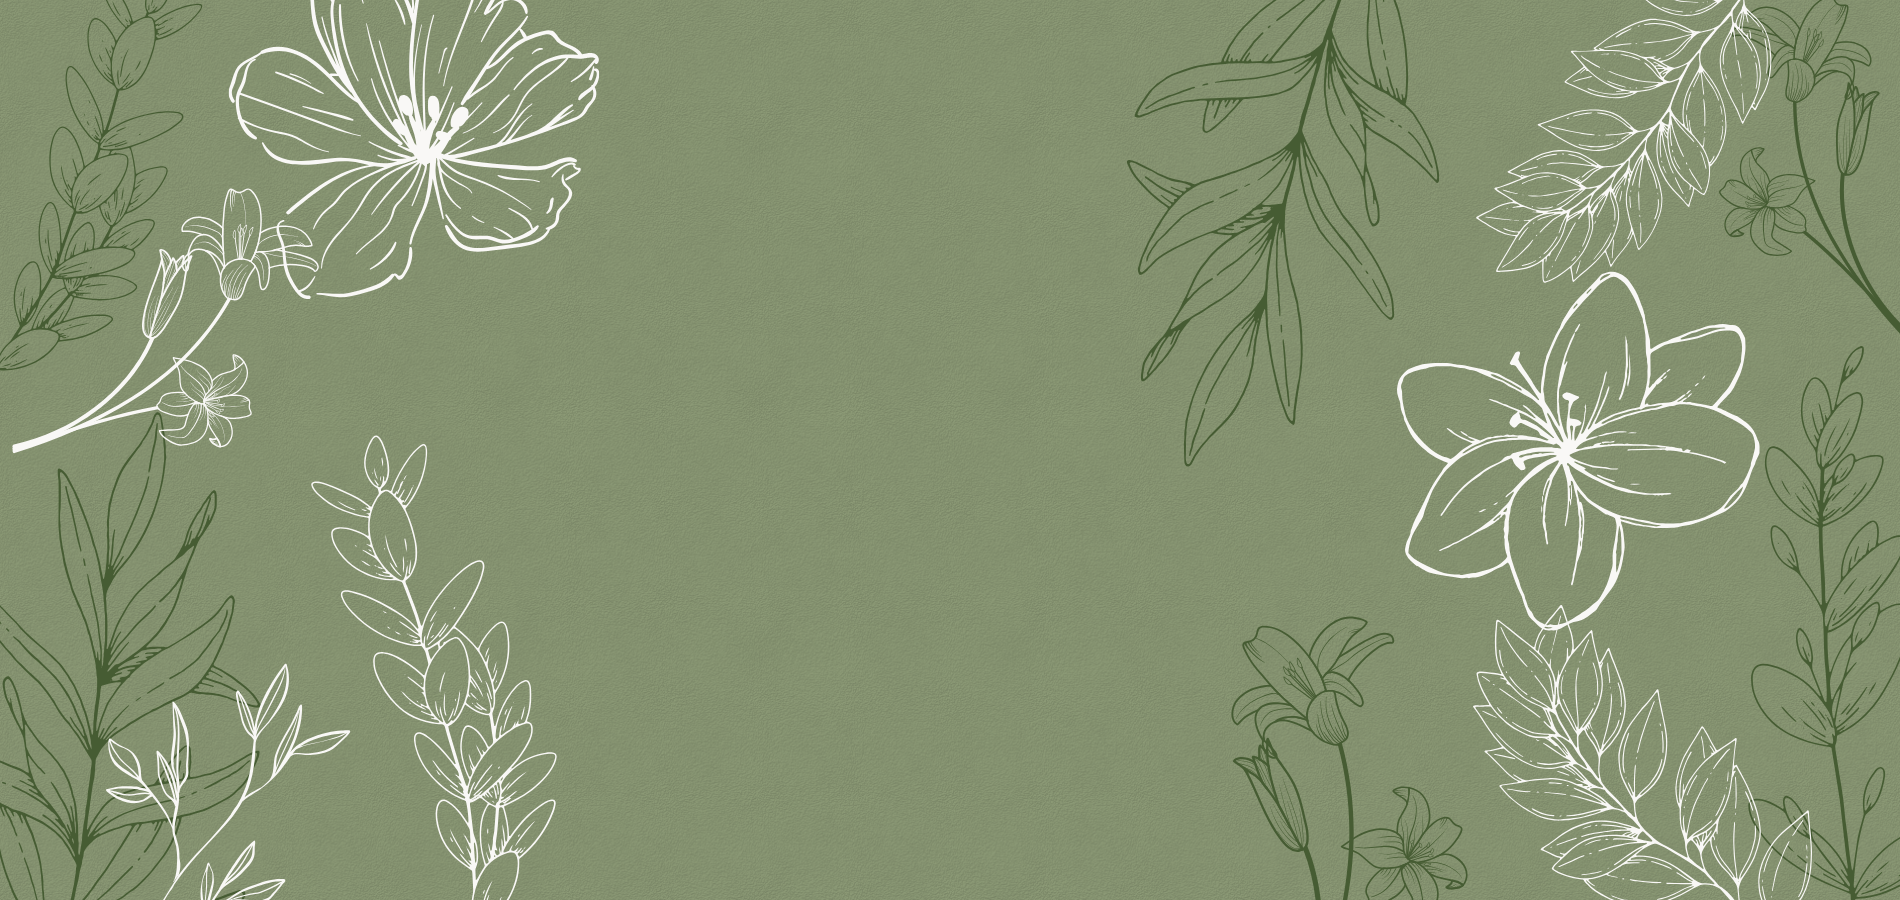
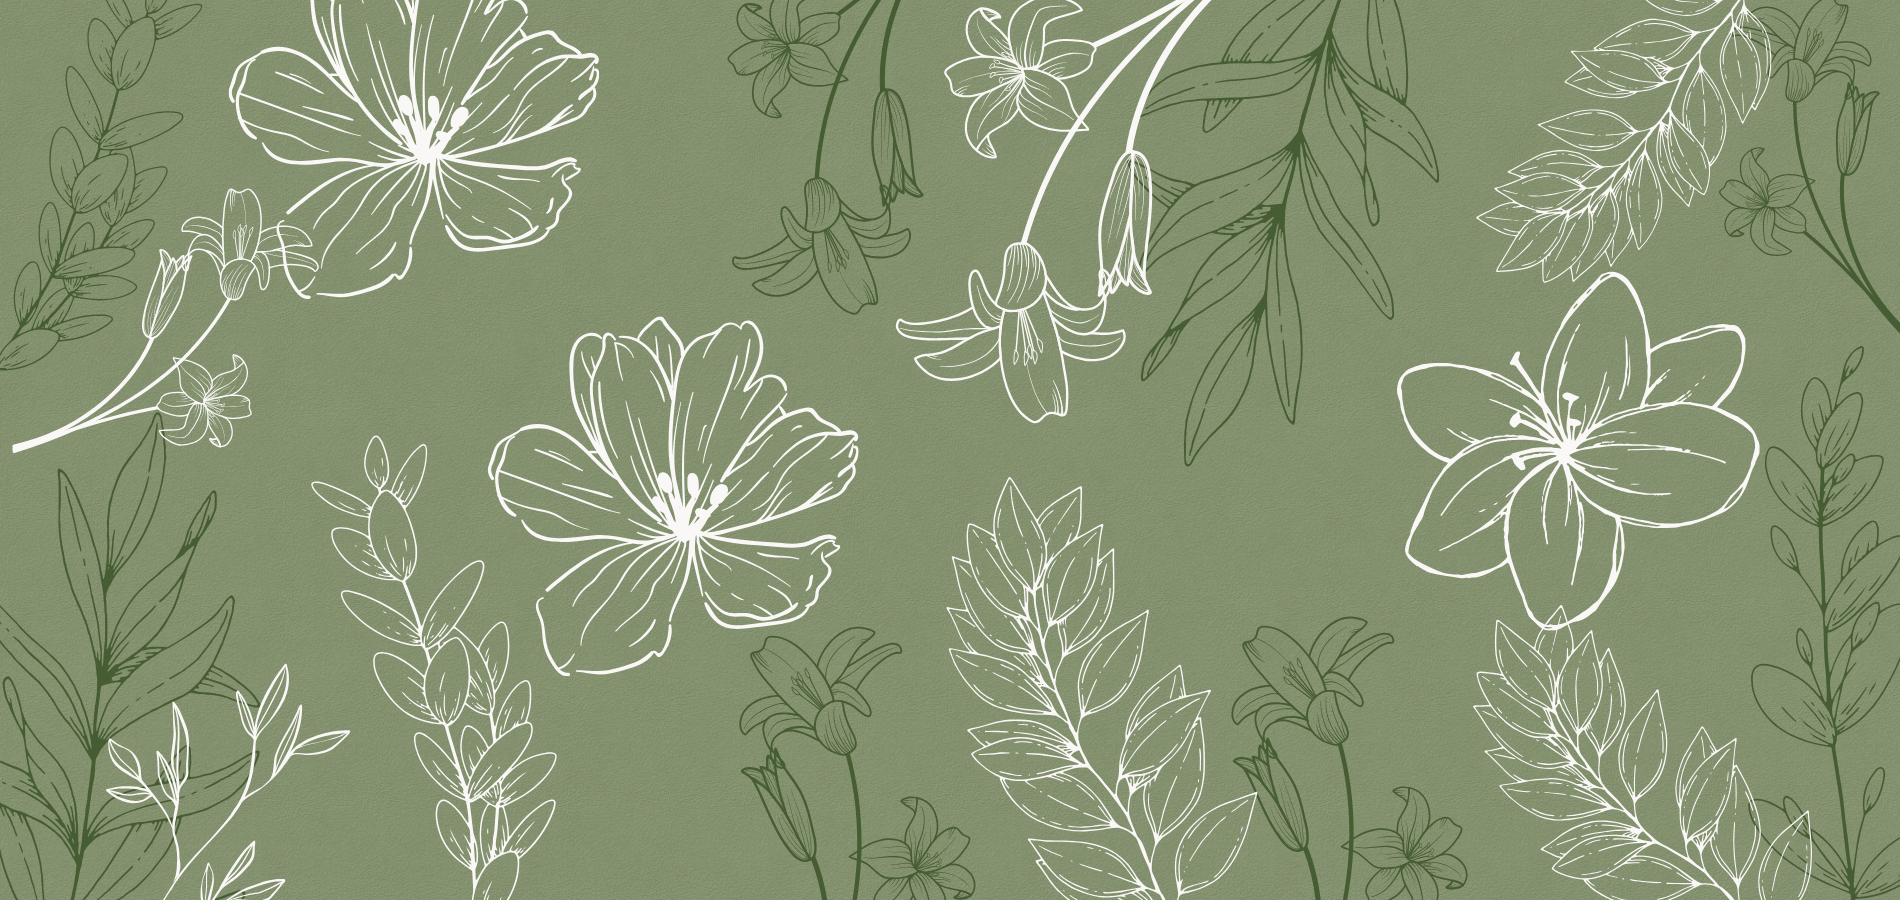
preparate

diff --git a/src/app/app.css b/src/app/app.css
@@ -7,12 +7,54 @@ main {
 }
 
 .section-countdown {
-  background-color: var(--marfil);
-  background-image: url("https://www.transparenttextures.com/patterns/cream-paper.png");
-  padding: 24px 18px;
+  position: relative;
+  height: 651px;
+  min-height: 651px;
+  display: flex;
+  flex-direction: column;
+  justify-content: flex-start;
+  align-items: center;
+  box-sizing: border-box;
+  /* background-color: var(--marfil);
+  background-image: 
+    url("https://www.transparenttextures.com/patterns/cream-paper.png"),
+    linear-gradient(to bottom, #f9f8f6, var(--marfil)); */
+  background-position: center, center;
+  background-repeat: repeat, no-repeat;
+  background-size: auto, cover;
+  padding: 25px 18px 40px 18px;
   text-align: center;
-  /* border-top: 1px solid var(--cardBorder); */
-  /* border-bottom: 1px solid var(--cardBorder); */
+  isolation: isolate;
+}
+
+.section-countdown::before {
+  content: "";
+  position: absolute;
+  inset: 0;
+  background-image: linear-gradient(
+        to bottom,
+        rgba(249, 248, 246, 0.8) 0%,
+        rgba(249, 248, 246, 0.5) 40%,
+        transparent 50%
+    ),
+    url("../assets/optimized/anillo-wavy.png");
+  background-repeat: no-repeat, no-repeat;
+  background-position: center, center;
+  background-size: cover;
+  pointer-events: none;
+  z-index: 1;
+}
+
+.section-countdown .container {
+  position: relative;
+  z-index: 2;
+  /* background: rgba(255, 255, 255, 0.85);
+  backdrop-filter: blur(8px);
+  -webkit-backdrop-filter: blur(8px);
+  border-radius: 24px;
+  padding: 30px 24px;
+  border: 1px solid rgba(255, 255, 255, 0.5);
+  box-shadow: 0 10px 30px rgba(74, 83, 60, 0.05); */
 }
 
 .section-countdown .section-title,
@@ -1209,6 +1251,19 @@ main:has(.carousel-container.maximized) {
 
   .carousel-btn.next {
     right: 8px;
+  }
+
+}
+
+@media (min-width: 768px) {
+  .app-footer .footer-names {
+    font-size: clamp(9.8rem, 8vw, 6.4rem) !important;
+  }
+}
+
+@media (min-width: 1200px) {
+  .footer-names {
+    flex-direction: row !important;
   }
 }
 
@@ -2594,14 +2649,40 @@ main:has(.carousel-container.maximized) {
 
 .app-footer .footer-names {
   font-family: var(--title);
-  font-size: 6.5rem;
   color: var(--marfil);
+  margin-top: 30px;
   margin-bottom: 8px;
   line-height: 1.2;
+  font-size: clamp(5.8rem, 8vw, 6.4rem);
+  display: flex;
+  flex-direction: column;
+  justify-content: center;
+  align-items: center;
+  width: 100%;
+  max-width: 1000px;
+  margin-left: auto;
+  margin-right: auto;
+  gap: 2rem;
 }
 
-.footer-names {
-  margin-top: 30px;
+.footer-names .random-word {
+  display: flex;
+  justify-content: space-between;
+  align-items: center;
+  flex: 1 1 0px;
+  min-width: 0;
+  margin: 0;
+}
+
+/* El símbolo "&" ocupa solo su espacio natural para no despegarse de los nombres */
+.footer-names .random-word:nth-child(2) {
+  flex: 0 0 auto;
+  justify-content: center;
+  padding: 0 0.5rem;
+}
+
+.footer-names .random-word .random-letter:only-child {
+  margin: 0 auto;
 }
 
 .app-footer .footer-text {
@@ -2619,5 +2700,26 @@ main:has(.carousel-container.maximized) {
   color: var(--marfil);
   letter-spacing: 0.1em;
   text-transform: uppercase;
+  text-align: center;
+  display: flex;
+  flex-wrap: wrap;
+  justify-content: center;
+  align-items: center;
+  width: 100%;
 }
 
+/* @media (max-width: 1060px) {
+   .footer-copyright {
+    font-size: 6.5rem;
+  }
+} */
+
+@media (min-width: 1060px) { 
+  .footer-copyright {
+    font-size: 2.2rem !important;
+  }
+ 
+  .footer-names {
+    font-size: 9.5rem !important;
+  }
+}

diff --git a/src/app/hero/hero.css b/src/app/hero/hero.css
@@ -57,7 +57,7 @@
   z-index: 2;
   text-align: center;
   padding: 24px;
-  max-width: 900px;
+  max-width: 925px;
   color: rgba(255, 255, 255, 0.95);
 }
 
@@ -153,7 +153,7 @@
 
 @media (min-width: 900px) {
   .content {
-    top: 163px;
+    top: 277px;
   }
 }
 
